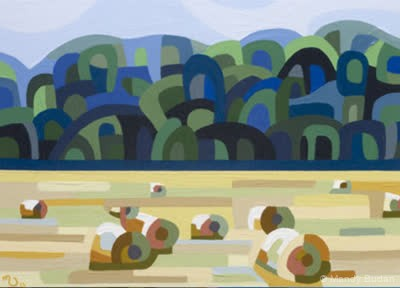
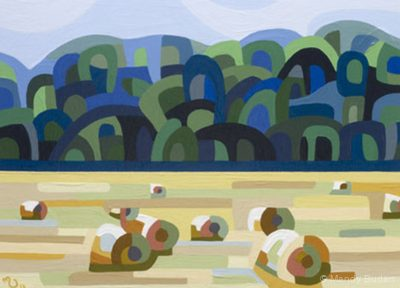
v2.7.117: Replace images for 2014-038, 2014-047, 2017-110, 2022-187 — optimized and watermarked

diff --git a/mandy-budan-small-original-paintings.html b/mandy-budan-small-original-paintings.html
@@ -571,7 +571,7 @@
 <div class="year-break"><h2>2022</h2></div>
     <div class="artwork" id="2022-187" itemscope itemtype="https://schema.org/VisualArtwork">
       <span itemprop="artist" itemscope itemtype="https://schema.org/Person"><meta itemprop="name" content="Mandy Budan"></span>
-      <div class="artwork-image"><a href="html/studies2/2022-187.html"><img itemprop="image" src="images/studies2/2022-187.jpg" alt="Landscape Study 187"></a><div class="circle-container"><div class="circle-inner"></div><span class="tooltip">Sold</span></div></div>
+      <div class="artwork-image"><a href="html/studies2/2022-187.html"><img itemprop="image" src="images/studies2/2022-187_sm.jpg" alt="Landscape Study 187"></a><div class="circle-container"><div class="circle-inner"></div><span class="tooltip">Sold</span></div></div>
       <div class="artwork-info">
         <div class="artwork-title" itemprop="name">Landscape Study 187</div>
         <div class="artwork-meta">
